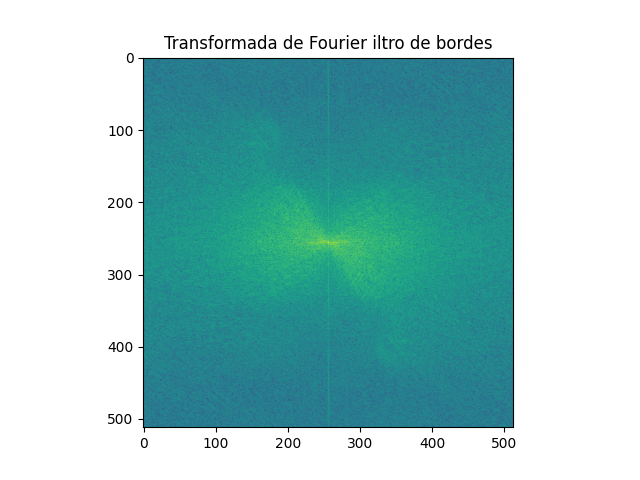
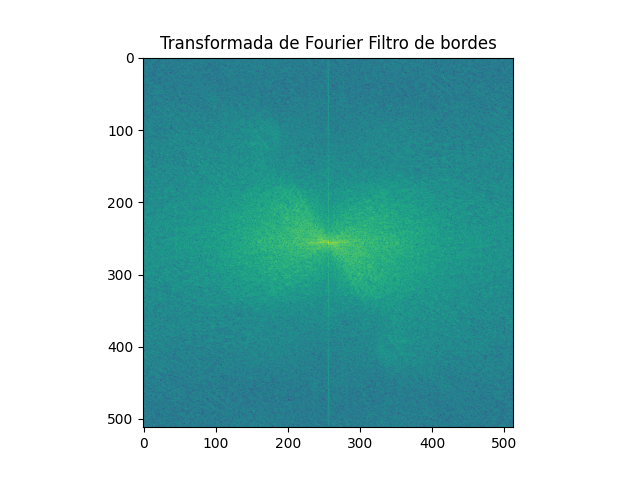
Added creation of TestImage to check resultos of convolution test
Commented every function

Changed region(s): [[0.25, 0.0625, 0.7812, 0.125]]

diff --git a/lab2.py b/lab2.py
@@ -1,11 +1,10 @@
-# Lab 1 Redes de Computadores
+# Lab 2 Redes de Computadores
 # Marco Hernandez 
 # 19.318.862-1
 
 import scipy
 import scipy.io
 import scipy.misc
-from scipy.io import wavfile
 from scipy import signal
 from scipy.fftpack import fft2,fftshift
 from PIL import Image
@@ -18,6 +17,11 @@ import copy
 import sys
 
 
+#Function to fill with 0 borders of the convoluted matrix
+#inputs: 
+#   martrix: convoluted matrix
+#   kernel: kernel matrix wich was used to convolute the original image
+# output: convoluted matrix with pixel border values equal to 0
 def fillWithZeros(matrix, kernel):
     dim = int(len(kernel)/ 2)
     for row in matrix:
@@ -32,9 +36,11 @@ def fillWithZeros(matrix, kernel):
     return matrix
 
 
-
-# Parte 1: Definir funcion de convolucion, en el caso problematico de los bordes, estos valores seran recortados 
-
+# Convolution function, that makes the convolution between a matrix of values of an image and a kernel, this kernel must have odd dimensions
+# inputs
+#   matrix: matrix with pixel values if an image
+#   kernel: kernel matrix wich dimension must be odd to have a central element
+# output: convoluted image matrix 
 def convolve(matrix, kernel):
     convoluted = []
 
@@ -63,8 +69,20 @@ def convolve(matrix, kernel):
     convoluted = np.array(convoluted)
     return convoluted
 
-
+# Function to check that the convolution is done in the right way, to do this, we use the convolution with an identity kernel
+# this kernel only has the central element of the matrix equal to 1, the rest of the numbers of the matrix is equal to 0
+# the expected output is the same matrix of the input except of the bordes in wich case, the pixel values will be 0
+# Input:
+#   matrix: matrix wich will be convoluted
+#   kernelCol: number of columns of the kenrl matrix, must be odd
+#   kernelRow: number of rows of the kernel matrix, must be odd
+# Output:
+#   the convoluted matrix if the convolution is done in the right way
+#   False if the convolution is wrong 
 def convolutionTest(matrix,kernelCol,kernelRow):
+    if(kernelCol % 2 == 0 or kernelRow % 2 == 0):
+        print("Kernel dimanesion must be odd")
+        return False
     testKernel = []
     i = 0
     j = 0
@@ -79,6 +97,7 @@ def convolutionTest(matrix,kernelCol,kernelRow):
     else:
         rowCenter = int(kernelRow / 2) 
 
+    # construction of the neutral kernel
     while(j < kernelCol):
         testRow = []
         while(i < kernelRow):
@@ -95,28 +114,32 @@ def convolutionTest(matrix,kernelCol,kernelRow):
     testKernel = np.array(testKernel)
     convoluted = convolve(matrix, testKernel)
 
-
+    # The pixel values that are compared between the original and the convoluted matrix are the pixels in the convoluted matrix than are not in the borders
+    # of the image
     colstart = int(kernelCol/2)
     rowStart = int(kernelRow/2)
     for n in range(colstart,len(matrix) - colstart):
         for m in range(rowStart,len(matrix[0]) - rowStart):
             if(matrix[n][m] != convoluted[n][m]):
-                print("No se realiza la convolucion adecuadamente")
-                return False
+                print("The convolution fails")
+                return False,[]
     
-    print("Se lleva a cabo la convolucion correctamente")
-    return True
+    print("The convolution is successfull")
+    return True,convoluted
 
+# Class to save all elements of an image and the oprations that are done with it
 class ImageObject:
     def __init__(self,path):
         self.name = path
         self.image = Image.open(path)
         self.imageMatrix = np.array(self.image)
 
+    # Method to aplpy the convolution function defined before to the imageMatrix attribute
     def convolveImage(self,kernel):
         result = convolve(self.imageMatrix,kernel)
         self.imageMatrix = result
     
+    #Mehod to apply the 2D fourier transform to the imageMatrix attribute
     def fourierTransform(self, title, saveName):
         fourierData = fft2(self.imageMatrix)
         fourierOriginal = fftshift(fourierData)
@@ -130,7 +153,8 @@ class ImageObject:
             g.savefig("Espectrograma de imagen")
         else:
             g.savefig(saveName)
-               
+
+    # Method to create an image from the imageMatrix attribute          
     def saveImage(self,name):
         self.image = Image.fromarray(self.imageMatrix.astype(np.uint8))
         self.image.save(name)
@@ -142,9 +166,11 @@ if __name__ == "__main__":
     realImage = ImageObject("lena512.bmp")
     gaussImage = copy.deepcopy(realImage)
     edgeImage = copy.deepcopy(realImage)
-    #ed2 = ImageObject("im1.png")
 
-    convolutionTest(realImage.imageMatrix,5,5)
+    isRight,realImage.imageMatrix =  convolutionTest(realImage.imageMatrix,5,5)
+
+    if(isRight == True):
+        realImage.saveImage("Test_image.png")
 
     gaussKer= np.array([[1,4,6,4,1],
                         [4, 16, 24, 16, 4],
@@ -169,11 +195,8 @@ if __name__ == "__main__":
     gaussImage.saveImage("Gauss_image.png")
 
     edgeImage.convolveImage(edgeKer)
-    edgeImage.fourierTransform("Transformada de Fourier iltro de bordes", "Fourier_Edge")
+    edgeImage.fourierTransform("Transformada de Fourier Filtro de bordes", "Fourier_Edge")
     edgeImage.saveImage("Edge_image.png")
-
-    #ed2.convolveImage(edgeKer2)
-    #ed2.saveImage("ed2.png")
 
     plt.show()
 
